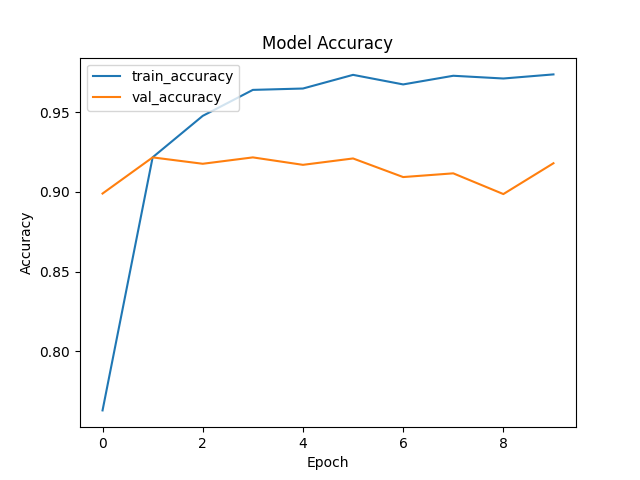
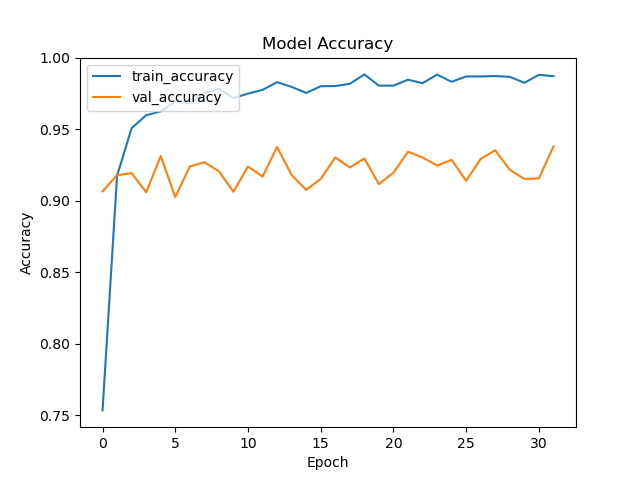
update final result

diff --git a/InceptionV3/InceptionV3.py b/InceptionV3/InceptionV3.py
@@ -31,7 +31,8 @@ CURRENT_HOME_PATH = os.path.dirname(CURRENT_DIR_PATH)
 # 設定
 image_size = (224, 224)
 batch_size = 16
-epochs = 10
+epochs = 50#50 better
+target_val_accuracy = 0.938  # 設定目標驗證準確度 better
 
 # 讀取 name.txt 和 query.txt
 with open(CURRENT_HOME_PATH + f"/name.txt", "r") as f:
@@ -116,8 +117,22 @@ model.compile(
     metrics=["accuracy"],
 )
 
-# 模型訓練
-history = model.fit(train_ds, epochs=epochs, validation_data=test_ds)
+# 自定義 Callback better
+class StopTrainingOnAccuracy(tf.keras.callbacks.Callback):
+    def __init__(self, target_accuracy):
+        super().__init__()
+        self.target_accuracy = target_accuracy
+
+    def on_epoch_end(self, epoch, logs=None):
+        val_acc = logs.get("val_accuracy")
+        if val_acc is not None and val_acc >= self.target_accuracy:
+            print(f"\n驗證準確度達到 {val_acc:.2f}，訓練停止。")
+            self.model.stop_training = True
+
+
+# 模型訓練 better 加入暫停
+callbacks = [StopTrainingOnAccuracy(target_accuracy=target_val_accuracy)]
+history = model.fit(train_ds, epochs=epochs, validation_data=test_ds, callbacks=callbacks)
 
 # 儲存模型
 model.save(filepath=CURRENT_DIR_PATH + f"/model/", overwrite=True, save_format="tf")
